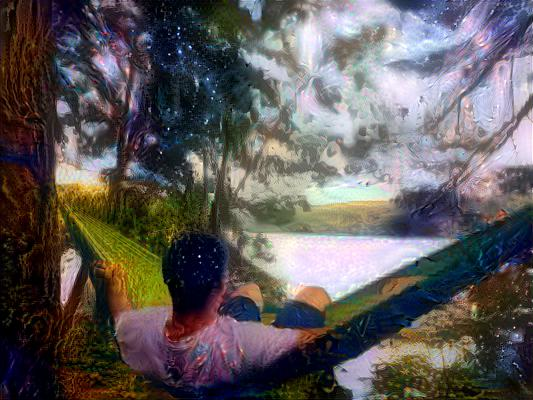
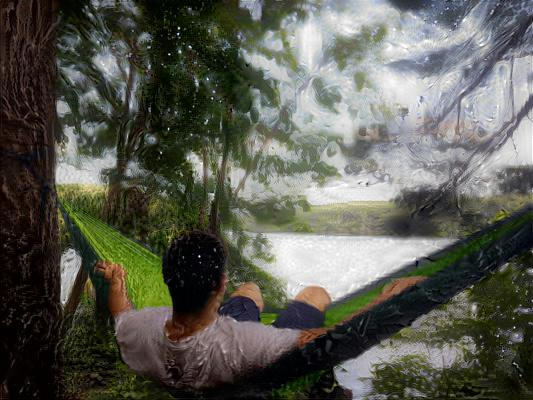
ruizhammock

diff --git a/Network.py b/Network.py
@@ -66,7 +66,7 @@ parser.add_argument("--style_scale", dest="style_scale", default=1.0, type=float
 parser.add_argument("--total_variation_weight", dest="tv_weight", default=8.5e-5, type=float,
                     help="Total Variation weight")
 
-parser.add_argument("--num_iter", dest="num_iter", default=40, type=int,
+parser.add_argument("--num_iter", dest="num_iter", default=50, type=int,
                     help="Number of iterations")
 
 parser.add_argument("--model", default="vgg19", type=str,
@@ -93,7 +93,7 @@ parser.add_argument("--init_image", dest="init_image", default="content", type=s
 parser.add_argument("--pool_type", dest="pool", default="max", type=str,
                     help='Pooling type. Can be "ave" for average pooling or "max" for max pooling')
 
-parser.add_argument('--preserve_color', dest='color', default="False", type=str,
+parser.add_argument('--preserve_color', dest='color', default="True", type=str,
                     help='Preserve original color in image')
 
 parser.add_argument('--min_improvement', default=0.0, type=float,
